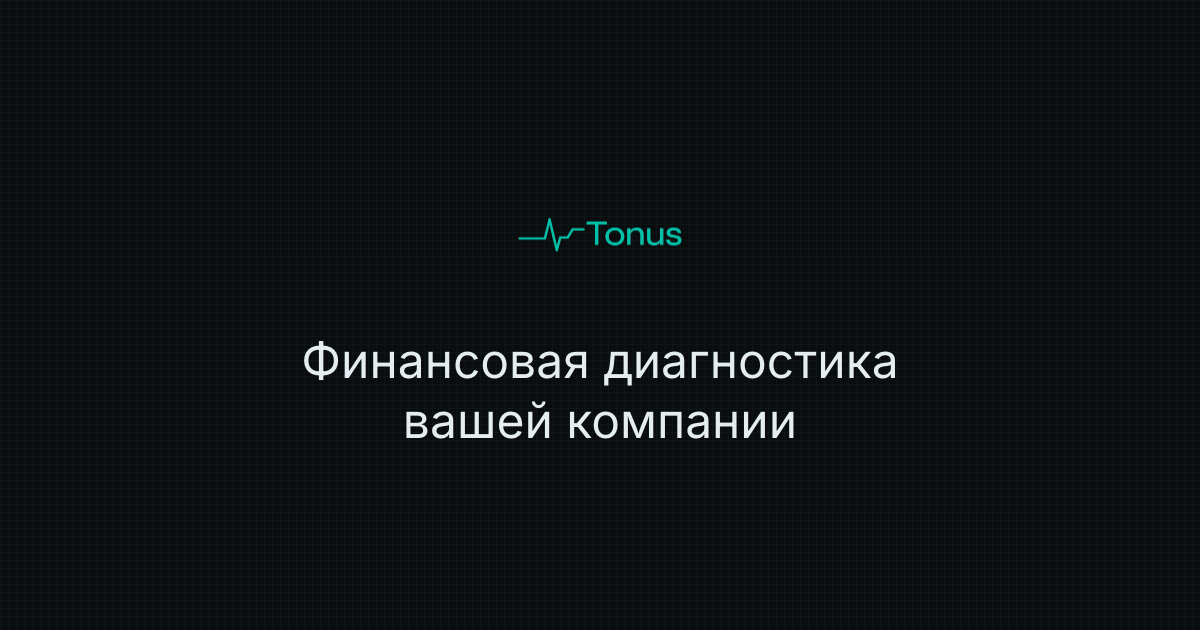
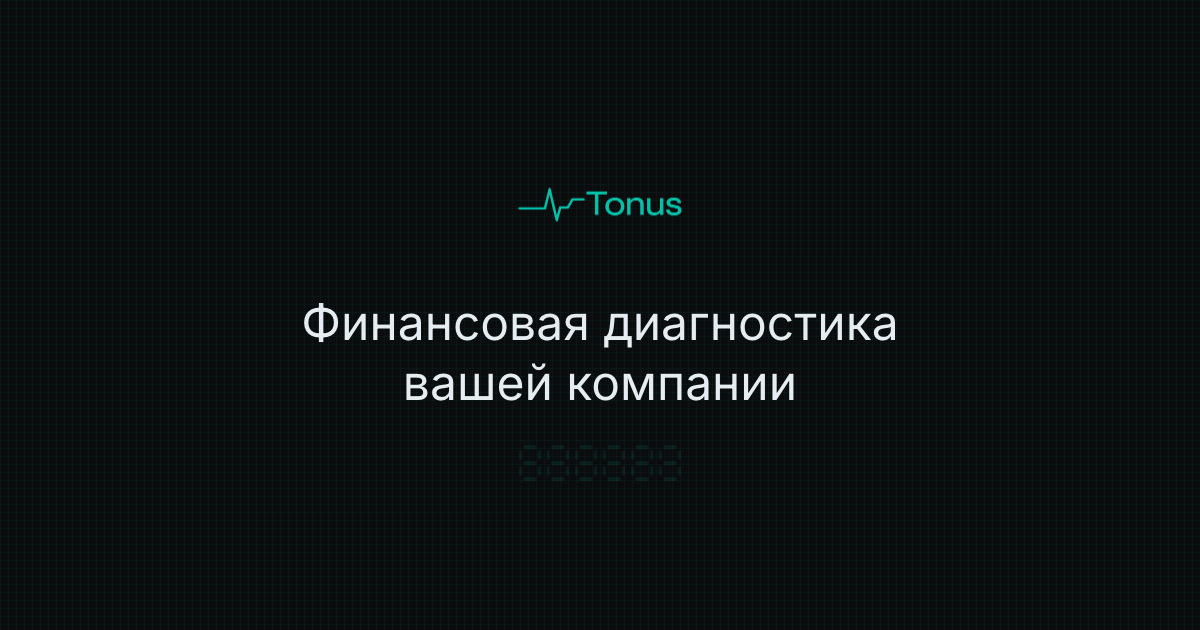
fix(web): P6 finish wave — price totem in segment voice + OG instrument device
Phase 6's finish review (disposition: fix) named three material fixes,
all on the pricing surface + OG raster — the phase's final code change.

1. Price figures in the segment voice (material_fix 1): the tier prices
   ("0", "19") were set font-display text-4xl (Inter), off the
   typography hierarchy's own rule that every headline figure uses the
   segment voice, and the North Star's "price totem" rendition names
   this exact surface. New PriceFigure wraps SegmentDisplay; $ and /мес
   stay PT Mono adjuncts OUTSIDE the mask (a segment mask carries
   numeric figures only). Messages restructured: pro.price "$19" split
   into priceCurrency "$" + price "19" (the currency symbol can no
   longer be baked into the same string as the digit the mask renders).
   A lit segment zero for Free is correct, not designed absence — 0 is
   Free's real price, not missing data.

2. Pricing's one authored moment (material_fix 3): each price figure
   ignites via igniteSequence/MOTION.step the instant it mounts, driven
   by a small useGSAP call inside PriceFigure — no ScrollTrigger
   registration needed (a page-load moment, not scroll-linked). Reduced
   motion already collapses to fully-lit via SegmentDisplay/
   igniteSequence's own existing branch. This is /pricing's first
   client-side motion import (shipped with zero across three prior
   rounds) — measured delta: +76KB raw / +29KB gzip of first-load JS
   (one new gsap chunk), verified by diffing the built ru/pricing.html's
[…]

Changed region(s): [[0.2467, 0.4825, 0.7708, 0.6937], [0.4317, 0.3016, 0.5858, 0.3921]]

diff --git a/apps/web/tests/e2e/pricing.spec.ts b/apps/web/tests/e2e/pricing.spec.ts
@@ -45,6 +45,53 @@ test("round-2 regression guard (N1): the footer's Pricing link actually carries 
   await expect(footerLink).toHaveClass(/text-ink-muted/);
 });
 
+test("finish-wave fixes 1+3: both tier prices render in the segment voice and actually ignite in a real browser", async ({
+  page,
+}) => {
+  await page.goto("/pricing");
+
+  // Fix 1: the price is a SegmentDisplay (role="img"), not plain Inter
+  // text — $ and /мес stay outside the mask as plain PT Mono adjuncts.
+  const freePrice = page.getByRole("img", { name: "0 — Цена" });
+  const proPrice = page.getByRole("img", { name: "19 — Цена" });
+  await expect(freePrice).toBeVisible();
+  await expect(proPrice).toBeVisible();
+  await expect(page.getByText("$", { exact: true })).toBeVisible();
+  await expect(page.getByText("/мес", { exact: true })).toBeVisible();
+
+  // Fix 3: each figure ignites on mount via the real gsap timeline (not
+  // jsdom's polyfilled ticker). Checked two ways, deliberately not just
+  // "no segment reports data-lit='false'" — SegmentDisplay's own SSR/
+  // no-JS baseline renders active segments as data-lit="true" BEFORE
+  // ignite() ever runs (see segment-display.tsx: "[data-lit]=true by
+  // default"), so a bare "zero unlit" poll can pass trivially on the very
+  // first check without ever proving the cascade actually ran. Instead:
+  // (a) explicit toHaveAttribute("data-lit", "true") on every active
+  // segment once settled, and (b) the CSS the app ships actually applies
+  // — [data-lit="true"] resolves to the real accent teal (rgb(25, 194,
+  // 176), full opacity), not the 10%-opacity ghost tone — verified
+  // against getComputedStyle, not just the attribute, since a CSS
+  // specificity/load-order bug could leave the right attribute with the
+  // wrong paint.
+  const freeSegments = freePrice.locator("[data-segment-on]");
+  const proSegments = proPrice.locator("[data-segment-on]");
+  await expect(freeSegments.first()).toHaveAttribute("data-lit", "true", { timeout: 3000 });
+
+  const freeCount = await freeSegments.count();
+  const proCount = await proSegments.count();
+  expect(freeCount).toBeGreaterThan(0);
+  expect(proCount).toBeGreaterThan(0);
+  for (let i = 0; i < freeCount; i++) {
+    await expect(freeSegments.nth(i)).toHaveAttribute("data-lit", "true");
+  }
+  for (let i = 0; i < proCount; i++) {
+    await expect(proSegments.nth(i)).toHaveAttribute("data-lit", "true");
+  }
+
+  const litColor = await freeSegments.first().evaluate((el) => getComputedStyle(el).backgroundColor);
+  expect(litColor).toBe("rgb(25, 194, 176)");
+});
+
 test("Free tier's CTA links to /analyze", async ({ page }) => {
   await page.goto("/pricing");
 

diff --git a/apps/web/app/[locale]/dev/og/page.tsx b/apps/web/app/[locale]/dev/og/page.tsx
@@ -1,5 +1,6 @@
 import { notFound } from "next/navigation";
 import { getTranslations, setRequestLocale } from "next-intl/server";
+import { SegmentDisplay } from "@/components/segment-display";
 
 type DevOgPageProps = {
   params: Promise<{ locale: string }>;
@@ -16,10 +17,20 @@ type DevOgPageProps = {
 // in-flow page — SiteHeader/SiteFooter still render underneath it (this
 // route sits inside the shared locale layout like every other page), but
 // the overlay fully covers the viewport so a viewport-only screenshot
-// never picks up that chrome. Logo + tagline only, on the Monitor
-// world's own ground and grid texture (bg-paper + grid-paper — see
-// globals.css) — no invented copy: the tagline is the landing hero's own
-// sanctioned h1 line, not a separate marketing string.
+// never picks up that chrome. Logo + tagline + one ghost-toned instrument
+// device, on the Monitor world's own ground and grid texture (bg-paper +
+// grid-paper — see globals.css) — no invented copy: the tagline is the
+// landing hero's own sanctioned h1 line, not a separate marketing string.
+//
+// Finish-wave material_fix 2: the OG raster previously carried none of
+// the instrument's own devices (logo + Inter headline is the generic
+// centered-logo-plus-tagline template, not this world specifically). A
+// ghost SegmentDisplay row (`value={null}`) beneath the headline fixes
+// that — ghost cells are the app's own "designed absence" primitive
+// (every cell renders, none lit), so this asserts no invented figure or
+// claim; it reads as the instrument's signature alphabet at rest, not as
+// a fabricated statistic. No ignition (PriceFigure's on-mount cascade) is
+// needed here: a resting ghost row has nothing to light.
 export default async function DevOgPage({ params }: DevOgPageProps) {
   if (process.env.NODE_ENV === "production") {
     notFound();
@@ -34,11 +45,12 @@ export default async function DevOgPage({ params }: DevOgPageProps) {
       data-og-capture
       className="grid-paper fixed inset-0 z-50 flex items-center justify-center bg-paper px-24"
     >
-      <div className="flex flex-col items-center gap-10 text-center">
+      <div className="flex flex-col items-center gap-8 text-center">
         <img src="/brand/logo-teal.png" alt="Tonus" width={800} height={450} className="h-28 w-auto" />
         <p className="max-w-3xl text-balance font-display text-5xl leading-tight text-ink">
           {t("h1")}
         </p>
+        <SegmentDisplay value={null} digits={6} className="text-4xl" />
       </div>
     </div>
   );

diff --git a/apps/web/components/pricing/pricing-tiers.tsx b/apps/web/components/pricing/pricing-tiers.tsx
@@ -5,6 +5,7 @@ import { SectionHeading } from "@/components/section-heading";
 import { OriginTicket } from "@/components/origin-ticket";
 import { CheckIcon } from "@/components/icons";
 import { WaitlistForm } from "@/components/pricing/waitlist-form";
+import { PriceFigure } from "@/components/pricing/price-figure";
 import { PHYSICAL_BUTTON_CLASS } from "@/components/pricing/physical-button-class";
 
 // Static content + the Free tier's navigation CTA render as a plain server
@@ -47,7 +48,20 @@ export function PricingTiers() {
           <p className="font-mono text-xs uppercase tracking-wide text-ink-muted">
             {tFree("title")}
           </p>
-          <p className="mt-2 font-display text-4xl text-ink">{tFree("price")}</p>
+          {/* finish-wave material_fix 1: the price is a real, headline
+           * figure ("every headline figure" per DESIGN.md's typography
+           * hierarchy, and the North Star's own "price totem" rendition)
+           * — the segment voice, not Inter. A lit segment zero is correct
+           * here: Free's price is genuinely 0, a real value, not designed
+           * absence («Н/Д» is reserved for missing data, which this
+           * isn't). */}
+          <p className="mt-2">
+            <PriceFigure
+              value={Number(tFree("price"))}
+              className="text-4xl"
+              caption={t("priceCaption")}
+            />
+          </p>
 
           <FeatureList items={freeFeatures} />
 
@@ -63,8 +77,17 @@ export function PricingTiers() {
           <p className="font-mono text-xs uppercase tracking-wide text-ink-muted">
             {tPro("title")}
           </p>
+          {/* Currency symbol and period are PT Mono adjuncts OUTSIDE the
+           * segment mask — DESIGN.md: "a SegmentDisplay/DSEG7 mask
+           * carries numeric figures only." Same pattern InstrumentModule
+           * uses for its own figure+unit row. */}
           <div className="mt-2 flex items-baseline gap-1">
-            <span className="font-display text-4xl text-ink">{tPro("price")}</span>
+            <span className="font-mono text-lg text-ink-muted">{tPro("priceCurrency")}</span>
+            <PriceFigure
+              value={Number(tPro("price"))}
+              className="text-4xl"
+              caption={t("priceCaption")}
+            />
             <span className="font-mono text-sm text-ink-muted">{tPro("pricePeriod")}</span>
           </div>
           <OriginTicket tone="attention" className="mt-3">

diff --git a/apps/web/tests/price-figure.test.tsx b/apps/web/tests/price-figure.test.tsx
@@ -1,0 +1,56 @@
+import { describe, expect, it, vi } from "vitest";
+import { render, screen } from "@testing-library/react";
+import { PriceFigure } from "@/components/pricing/price-figure";
+
+function mockMatchMedia(matches: boolean) {
+  window.matchMedia = vi.fn().mockImplementation((query: string) => ({
+    matches,
+    media: query,
+    onchange: null,
+    addEventListener: vi.fn(),
+    removeEventListener: vi.fn(),
+    addListener: vi.fn(),
+    removeListener: vi.fn(),
+    dispatchEvent: vi.fn(),
+  }));
+}
+
+// finish-wave material_fix 3: pricing's one authored moment — each price
+// figure ignites on mount via useGSAP + SegmentDisplay's own ignite()
+// handle. Mirrors segment-display.test.tsx's own ignition assertions
+// (data-lit before/after) rather than re-testing SegmentDisplay's digit
+// truth table, which PriceFigure doesn't touch.
+describe("PriceFigure", () => {
+  it("renders the value as a segment figure with the given caption", () => {
+    render(<PriceFigure value={19} caption="Цена" />);
+    expect(screen.getByRole("img", { name: "19 — Цена" })).toBeInTheDocument();
+  });
+
+  it("without reduced motion, ignites on mount — active segments start unlit, mid-cascade", () => {
+    mockMatchMedia(false);
+    const { container } = render(<PriceFigure value={7} />);
+
+    const onSegments = container.querySelectorAll("[data-segment-on]");
+    expect(onSegments.length).toBeGreaterThan(0);
+    for (const el of Array.from(onSegments)) {
+      expect(el.getAttribute("data-lit")).toBe("false");
+    }
+  });
+
+  it("under reduced motion, renders fully lit immediately — instruments simply already on", () => {
+    mockMatchMedia(true);
+    const { container } = render(<PriceFigure value={7} />);
+
+    const onSegments = container.querySelectorAll("[data-segment-on]");
+    expect(onSegments.length).toBeGreaterThan(0);
+    for (const el of Array.from(onSegments)) {
+      expect(el.getAttribute("data-lit")).toBe("true");
+    }
+  });
+
+  it("renders a lit zero, not designed absence — a real price of 0 is a real value", () => {
+    mockMatchMedia(true);
+    render(<PriceFigure value={0} caption="Цена" />);
+    expect(screen.getByRole("img", { name: "0 — Цена" })).toBeInTheDocument();
+  });
+});

diff --git a/apps/web/tests/pricing-tiers.test.tsx b/apps/web/tests/pricing-tiers.test.tsx
@@ -30,10 +30,16 @@ describe("PricingTiers", () => {
     expect(headings[0]).toHaveTextContent(ruMessages.Pricing.heading);
   });
 
-  it("renders the Free tier's price and every feature line verbatim from messages", () => {
+  it("renders the Free tier's price as a segment figure (finish-wave fix 1) and every feature line verbatim from messages", () => {
     renderTiers();
     expect(screen.getByText(free.title)).toBeInTheDocument();
-    expect(screen.getByText(free.price)).toBeInTheDocument();
+    // The price is a SegmentDisplay now, not a plain text node — its
+    // accessible name combines the formatted value with the shared
+    // priceCaption ("Цена"), the same "{value} — {caption}" pattern
+    // score-header.tsx's own SegmentDisplay usage follows.
+    expect(
+      screen.getByRole("img", { name: `${free.price} — ${ruMessages.Pricing.priceCaption}` }),
+    ).toBeInTheDocument();
     expect(screen.getByText(free.feature1)).toBeInTheDocument();
     expect(screen.getByText(free.feature2)).toBeInTheDocument();
     expect(screen.getByText(free.feature3)).toBeInTheDocument();
@@ -45,10 +51,17 @@ describe("PricingTiers", () => {
     expect(link).toHaveAttribute("href", "/analyze");
   });
 
-  it("renders the Pro tier's price, launch-pricing note, and every feature line", () => {
+  it("renders the Pro tier's price as a segment figure with its currency/period as plain adjuncts, the launch-pricing note, and every feature line", () => {
     renderTiers();
     expect(screen.getByText(pro.title)).toBeInTheDocument();
-    expect(screen.getByText(pro.price)).toBeInTheDocument();
+    // $ and /мес stay plain PT Mono text OUTSIDE the segment mask — only
+    // the bare numeral goes into SegmentDisplay (DESIGN.md: "a segment
+    // mask carries numeric figures only").
+    expect(screen.getByText(pro.priceCurrency)).toBeInTheDocument();
+    expect(
+      screen.getByRole("img", { name: `${pro.price} — ${ruMessages.Pricing.priceCaption}` }),
+    ).toBeInTheDocument();
+    expect(screen.getByText(pro.pricePeriod)).toBeInTheDocument();
     expect(screen.getByText(pro.priceNote)).toBeInTheDocument();
     expect(screen.getByText(pro.feature1)).toBeInTheDocument();
     expect(screen.getByText(pro.feature2)).toBeInTheDocument();

diff --git a/apps/web/components/pricing/price-figure.tsx b/apps/web/components/pricing/price-figure.tsx
@@ -1,0 +1,43 @@
+"use client";
+
+import { useRef } from "react";
+import { useGSAP } from "@gsap/react";
+import { SegmentDisplay, type SegmentDisplayHandle, type SegmentDisplayProps } from "@/components/segment-display";
+
+export type PriceFigureProps = SegmentDisplayProps;
+
+// Pricing's one authored moment (finish-wave material_fix 3): each price
+// figure ignites its own boot-grammar cascade the instant it mounts — one
+// digit MOTION.step after the previous, via SegmentDisplay's own
+// imperative ignite() handle — rather than rendering pre-lit and inert.
+// useGSAP (not a plain useEffect) runs the ignition before paint, the
+// same layout-timed discipline every other ignition call site in the app
+// follows (see lib/motion.ts's igniteSequence doc comment: it avoids a
+// visible flash of the pre-rendered final state). No ScrollTrigger
+// registration needed — this is a page-load moment, not a scroll-linked
+// one, so there's nothing beyond useGSAP's own lightweight context/
+// cleanup to set up (unlike landing/how-it-works.tsx's self-registering
+// pattern, which exists specifically for its ScrollTrigger use).
+//
+// Reduced motion: SegmentDisplay.ignite() calls igniteSequence(), whose
+// own reduced-motion branch sets every segment lit synchronously and
+// returns null — no timeline, "instruments simply already on."
+//
+// This is the first client-side motion import on /pricing (round-0/1/2
+// shipped it with zero) — the deliberate cost of the authored moment: the
+// route now pulls in gsap + @gsap/react on its own, same as how the
+// motion runtime already ships on any route reaching for these hooks
+// directly rather than through the route-gated MotionProvider (see
+// motion-provider-lazy.tsx's own header comment on why THAT gate exists —
+// it protects the far heavier gsap+ScrollTrigger+lenis bundle
+// MotionProvider pulls in for the results scroll cinema, which this page
+// never touches).
+export function PriceFigure(props: PriceFigureProps) {
+  const ref = useRef<SegmentDisplayHandle>(null);
+
+  useGSAP(() => {
+    ref.current?.ignite();
+  }, []);
+
+  return <SegmentDisplay ref={ref} {...props} />;
+}
